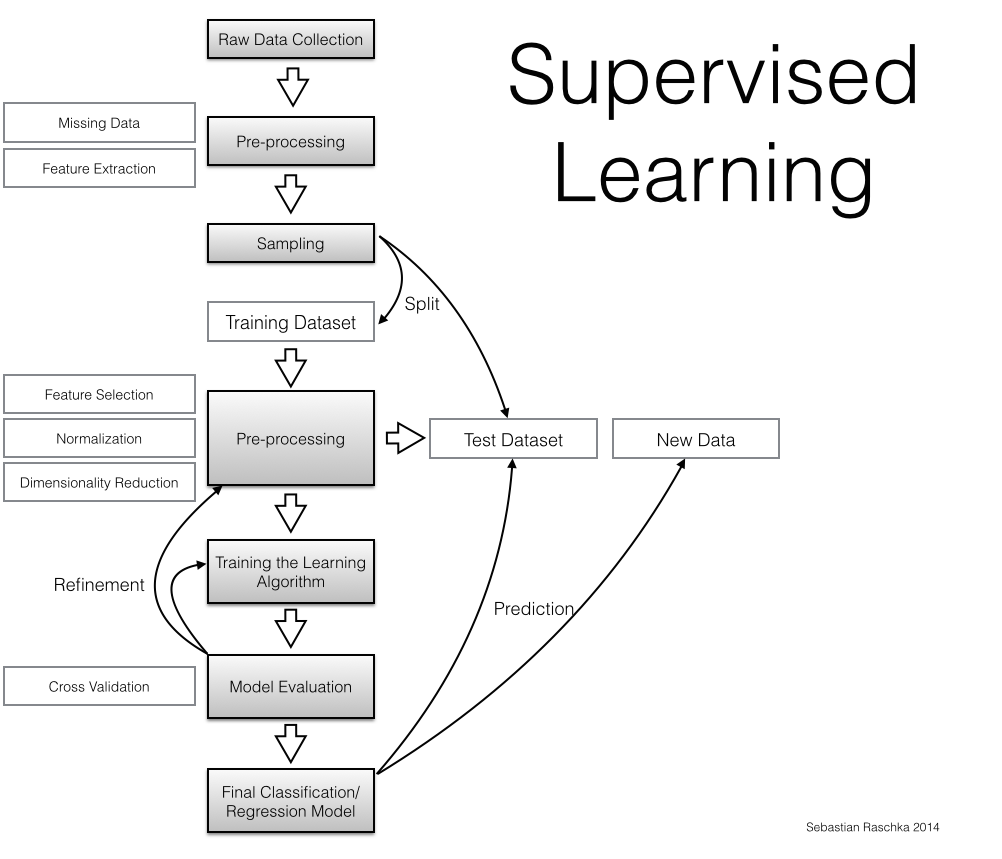
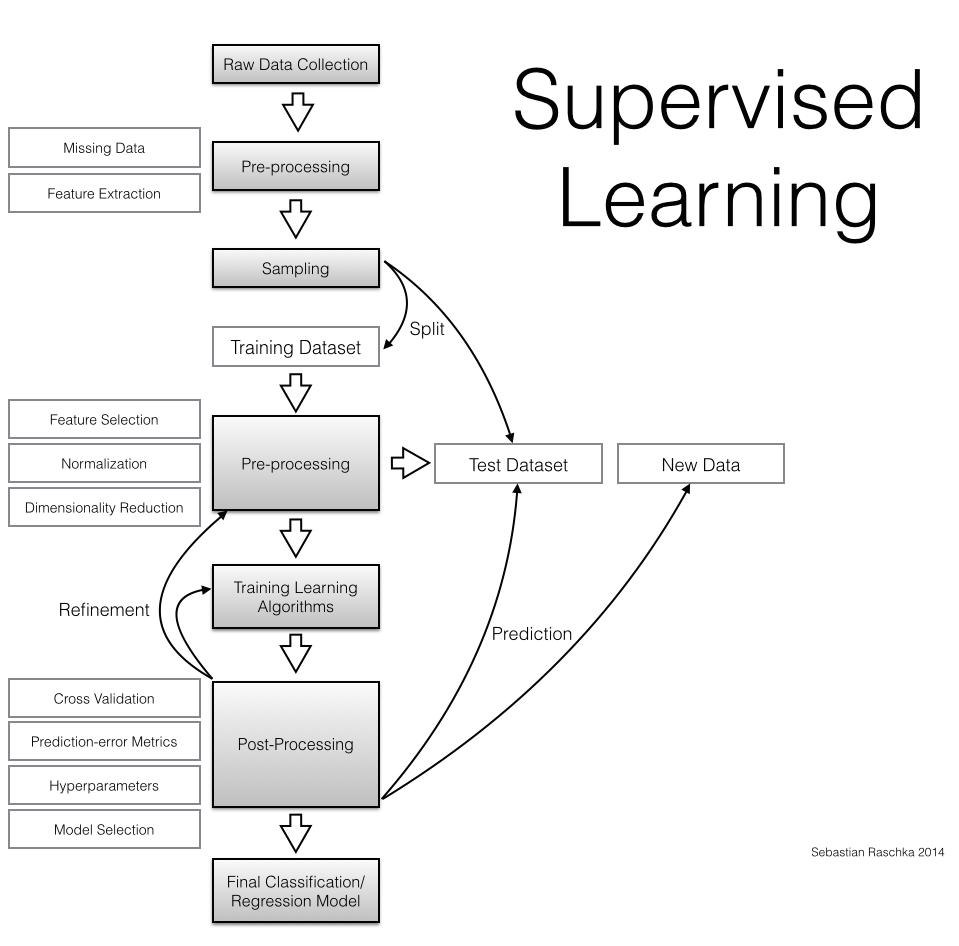
grid search

diff --git a/resources/data_glossary.md b/resources/data_glossary.md
@@ -53,7 +53,9 @@ Please feel free to drop me a note via
 - [Feature Space](#feature-space)
 - [Fuzzy C-Means Clustering](#fuzzy-cmeans-clustering)
 - [Generalization error](#generalization-error)
-- [Gradient Descent](#gradient-descent) 
+- [Gradient Descent](#gradient-descent)
+- [Grid Search](#grid-search)
+- [Hyperparameters](#hyperparameters)
 - [Imputation](#imputation)
 - [Independent Component Analysis](#independent-component-analysis)
 - [Jackknifing](#jackknifing)
@@ -426,6 +428,23 @@ The generalization error describes how well new data can be classified and is a 
 
 Gradient descent is an algorithm that optimizes a function by finding its local minimum. After the algorithm was initialized with an initial guess, it takes the derivative of the function to make a step towards the direction of deepest descent. This step-wise process is repeated until convergence.
 
+<br>
+<br>
+
+<a class="mk-toclify" id="grid-search"></a>
+#### Grid Search
+[[back to top](#table-of-contents)]
+
+Grid Search is a procedure to optimize parameters of a learning algorithm that are not learned from the training data (i.e., [hyperparameters](#hyperparameters)). Typically, Grid Search is implemented as an exhaustive search (in contrast to randomized parameter optimization) of candidate parameter values. After all possible parameter combination for a model are evaluated, the best combination will be retained.
+
+<br>
+<br>
+
+<a class="mk-toclify" id="hyperparameters"></a>
+#### Hyperparameters
+[[back to top](#table-of-contents)]
+
+Hyperparameters are the parameters of a classifier or estimator that are not directly learned in the machine learning step from the training data but are optimized separately (e.g., via [Grid Search](#grid-search)). The goal of hyperparameter optimization is to achieve good generalization of a learning algorithm and to avoid overfitting to the training data.
 
 <br>
 <br>
